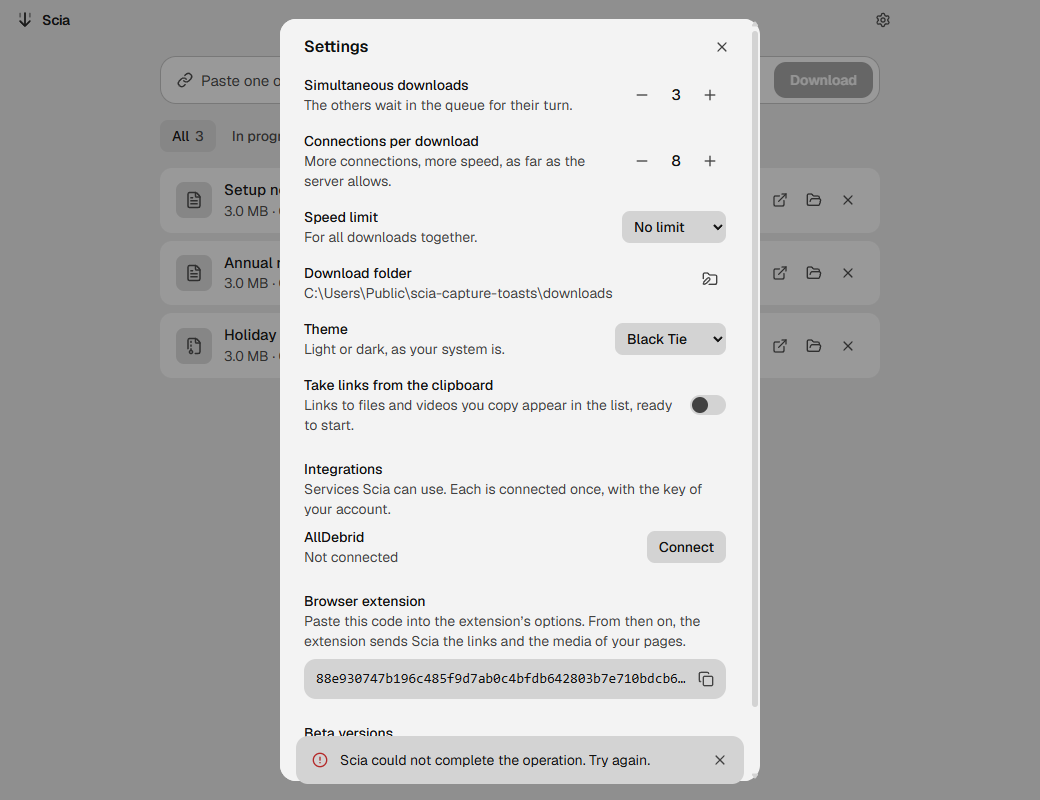
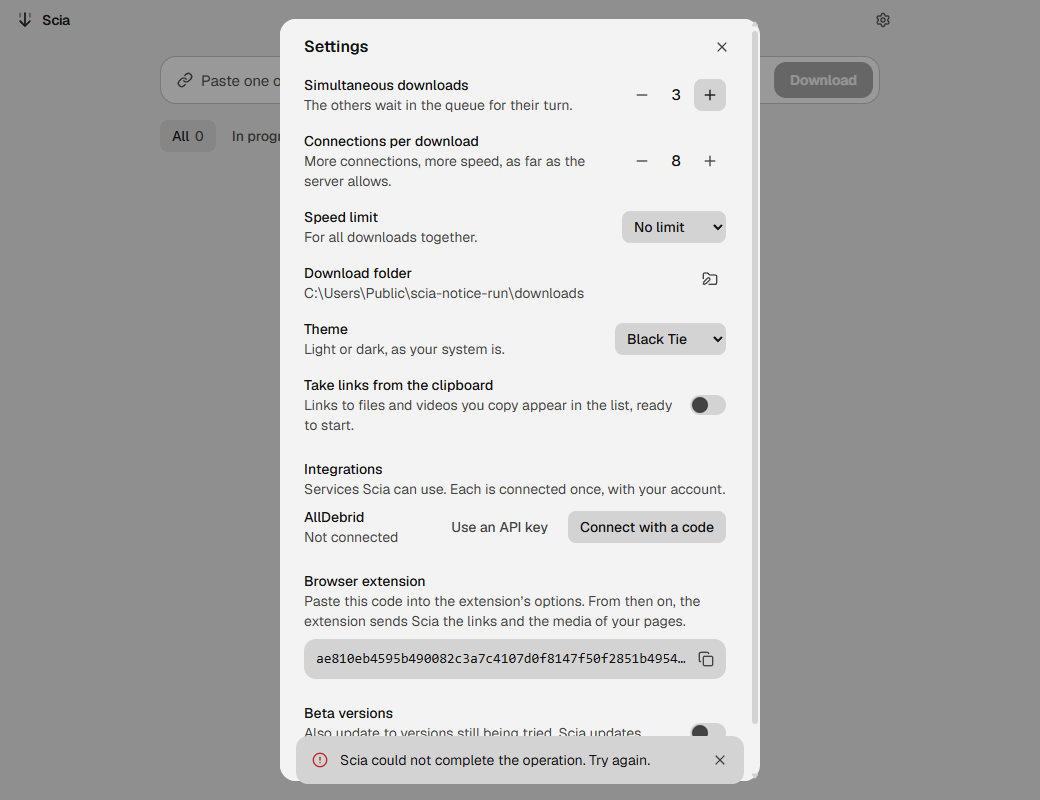
test(server): wait for the next code's own questions, and retake the notice over settings

diff --git a/apps/server/src/integrations.int.test.ts b/apps/server/src/integrations.int.test.ts
@@ -6,7 +6,11 @@ import { CodeConflictError, Integrations, KeyNotKeptError } from './integrations
 import { type KeyVault, MemoryVault } from './key-vault.ts';
 import type { Logger } from './logger.ts';
 import { ServiceError } from './service-error.ts';
-import { type AllDebridServer, startAllDebridServer } from './testing/alldebrid-server.ts';
+import {
+  type AllDebridServer,
+  type SimulatedRequest,
+  startAllDebridServer,
+} from './testing/alldebrid-server.ts';
 import { until } from './testing/scratch.ts';
 
 // Made up: no account anywhere has these keys.
@@ -77,6 +81,13 @@ describe('Integrations', () => {
   function lastCheck(): string {
     const asked = service.requests.filter((request) => request.form.check !== undefined);
     return asked.at(-1)?.form.check ?? '';
+  }
+  // Whether the service heard of an earlier code after it first heard the check of a later one.
+  // A question sent just before a wait ended may still arrive after a spec looked — the service
+  // records a request once its body is in — but never after the next code's first question.
+  function heardAfter(earlier: (request: SimulatedRequest) => boolean, later: string): boolean {
+    const first = service.requests.findIndex((request) => request.form.check === later);
+    return first >= 0 && service.requests.slice(first + 1).some(earlier);
   }
   function statusOf(integrations: Integrations) {
     return integrations.code(IntegrationId.AllDebrid)?.status;
@@ -450,12 +461,12 @@ describe('Integrations', () => {
 
       clock += 600_000;
       await until(() => statusOf(integrations) === IntegrationCodeStatus.Failed);
-      const asked = checksOf(check).length;
 
       expect(integrations.code(IntegrationId.AllDebrid)?.failure).toBe(CodeFailure.Expired);
       await integrations.startCode(IntegrationId.AllDebrid);
-      await until(() => checksOf(lastCheck()).length >= 2);
-      expect(checksOf(check)).toHaveLength(asked);
+      // The next code's own questions, not the last one heard of the code before.
+      await until(() => lastCheck() !== check && checksOf(lastCheck()).length >= 2);
+      expect(heardAfter((request) => request.form.check === check, lastCheck())).toBe(false);
     });
 
     it('says the code expired when the service says so', async () => {
@@ -522,13 +533,12 @@ describe('Integrations', () => {
       const check = lastCheck();
 
       integrations.cancelCode(IntegrationId.AllDebrid);
-      const asked = checksOf(check).length;
       service.confirmCode(code, KEY);
       expect(integrations.code(IntegrationId.AllDebrid)).toBeUndefined();
       await integrations.startCode(IntegrationId.AllDebrid);
-      await until(() => checksOf(lastCheck()).length >= 2);
+      await until(() => lastCheck() !== check && checksOf(lastCheck()).length >= 2);
 
-      expect(checksOf(check)).toHaveLength(asked);
+      expect(heardAfter((request) => request.form.check === check, lastCheck())).toBe(false);
       expect(await integrations.list()).toEqual([notConnected]);
       // A wait that was ended did not fail: nothing is said of it.
       expect(logged.join('\n')).not.toContain('service_code_failed');
@@ -634,15 +644,14 @@ describe('Integrations', () => {
       const given = await integrations.startCode(IntegrationId.AllDebrid);
 
       await connecting;
-      const asked = () => service.requests.filter((request) => request.form.pin === given.code);
-      const askedThen = asked().length;
+      const before = lastCheck();
 
       expect(integrations.code(IntegrationId.AllDebrid)).toBeUndefined();
       await integrations.disconnect(IntegrationId.AllDebrid);
       service.confirmCode(given.code, REVOKED);
       await integrations.startCode(IntegrationId.AllDebrid);
-      await until(() => checksOf(lastCheck()).length >= 2);
-      expect(asked()).toHaveLength(askedThen);
+      await until(() => lastCheck() !== before && checksOf(lastCheck()).length >= 2);
+      expect(heardAfter((request) => request.form.pin === given.code, lastCheck())).toBe(false);
       expect(await integrations.list()).toEqual([notConnected]);
     });
 

diff --git a/.claude/gotchas.md b/.claude/gotchas.md
@@ -49,6 +49,7 @@ Read the groups your change touches before a push. Add a `→` entry in the same
 - → A list of lines taken away names the lines, and a line no road of the specs reaches is not among the "caught": the plan said "each of the service's codes unmapped" and "the account asked at every listing", and two of those lines could be deleted with every spec green — a code the simulated service is never made to answer, and a line only an engine that read its key from the vault runs. Take the line away on each road that reaches it; a line no road reaches is taken out of the code (#53: the slips of #32 and #44, both again; #65 again). #86 again: "every line that decides something" was claimed of an encoder where the directory's height byte, the planes, the mask's byte and the rule "a bitmap below 256" could each go with every spec green. Take them away with a script that removes one line, runs the specs and puts it back, and count from what it printed. #100 again: the author's script took away what was easy to name, and the tech lead's found the two lines that keep yt-dlp from going back to an older signed build — "newer than the one in use", and a date read only from what the signature covers — each removable with every spec green. A guard's mutant is the attack it stops, not its deletion: `!==` for "newer", the unsigned part read for the date. And a fix in an adapter is taken away where it is used too: `main.ts` calling the old `open` kept 393 specs green. #136 again: a code's cancel at a disconnection was taken out as "no road reaches it" because the page offers none — and the API did (`POST /code` while connected, then `DELETE`). A road is any caller of the route, not the one screen; the fix there was to close the road (a code is refused while a service is connected), not to trust that nobody takes it.
 - → The numbers of a run are read from that run's record, and a body that tells of several runs says which run each number belongs to: "two requests in the whole run" was the count of the last run, beside sentences from an earlier one that had made four (#53: #44 again).
 - → A number in a spec's comment, and in the PR body that quotes it, is counted from the run, not from the setting: eight connections were configured, and a file of four megabytes made four (#44).
+- → A wait for something new is a wait for something other than what was there. "Until the last code's check was asked twice" passed at once, on the code before — the last check the service had heard — so three specs of #136 waited for nothing and counted requests while one sent before a cancel was still arriving; under load one counted two where it had read one. A spec waits until the last thing seen is not the old one, and says what must not happen by order (nothing of the old after the new began), not by a count taken while requests may be on their way.
 
 - → Two asks of the same thing answer in the order they like. Settings read the engine at every opening and kept whatever came back: a change made while that read was on its way was undone on screen when the read answered after it — the page went back to the theme of before, with the engine keeping the new one. No person is that fast; a harness on a window the system had put in the background was. An answer is kept only when nothing was asked after it, and the spec holds the late answer back by hand (#52).
 
